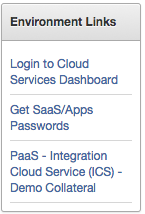
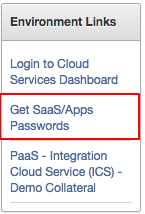
added highlighting to lab 200

Changed region(s): [[0.0, 0.4206, 0.9655, 0.6729]]

diff --git a/LabGuide200.md b/LabGuide200.md
@@ -131,6 +131,9 @@ This connection is used to call the importAndLoadData operation of the HCM Dat
 ![](images/200/image141.png)
 
 **2.8** Click on **Configure Connectivity**.
+
+![](images/200/image141.png)
+
 In the **WSDL URL** field enter "https://ucf6-fap0868-fs.oracledemos.com/idcws/GenericSoapPort?WSDL"
 
 Then click **Ok** to close.
@@ -205,7 +208,7 @@ In the **WSDL URL** field enter "https://ucf6-fap0868-hcm.oracledemos.com/hcmCom
 
 Then click **Ok** to close.
 
-![](images/200/image134.png)
+![](images/200/image153.png)
 
 >***Note*** The default security configuration is set to **Basic Authentication**, which by the way, is the only option available for REST trigger connections. When invoking the trigger, we will use our ICS username/password.
 
@@ -213,7 +216,7 @@ Then click **Ok** to close.
 
 ![](images/200/image135.png)
 
-**2.10** In another tab, go to demo environment launch pad, click on the "Get SaaS Passwords” to get latest username and passwords for UCM cloud. Write these down to use in the next step.
+**2.10** In another tab, go to demo environment launch pad, click on the **Get SaaS Passwords** to get latest username and passwords for UCM cloud. Write these down to use in the next step.
 
 ![](images/200/image142.png)
 
@@ -298,13 +301,13 @@ The following prompt should pop up. Either scroll down and select or search for 
 
 **1.7** The following screen should display when you click to create a new FTP Connection.
 
-![](images/200/image132.png)
+![](images/200/image133.png)
+
 
 **1.8** In the **Name** field enter "ICSHCM-POC-FTP_UserXX" and replace the "XX" with your assigned user name.
 
 Set the Role to **Trigger and Invoke**
 
-![](images/200/image133.png)
 
 **1.9** Click on **Configure Connectivity**. Use the
 Domain **SFTP Host** as **FTP server host address** from step **1.2** which was retrieved from dashboard, without the port included.
